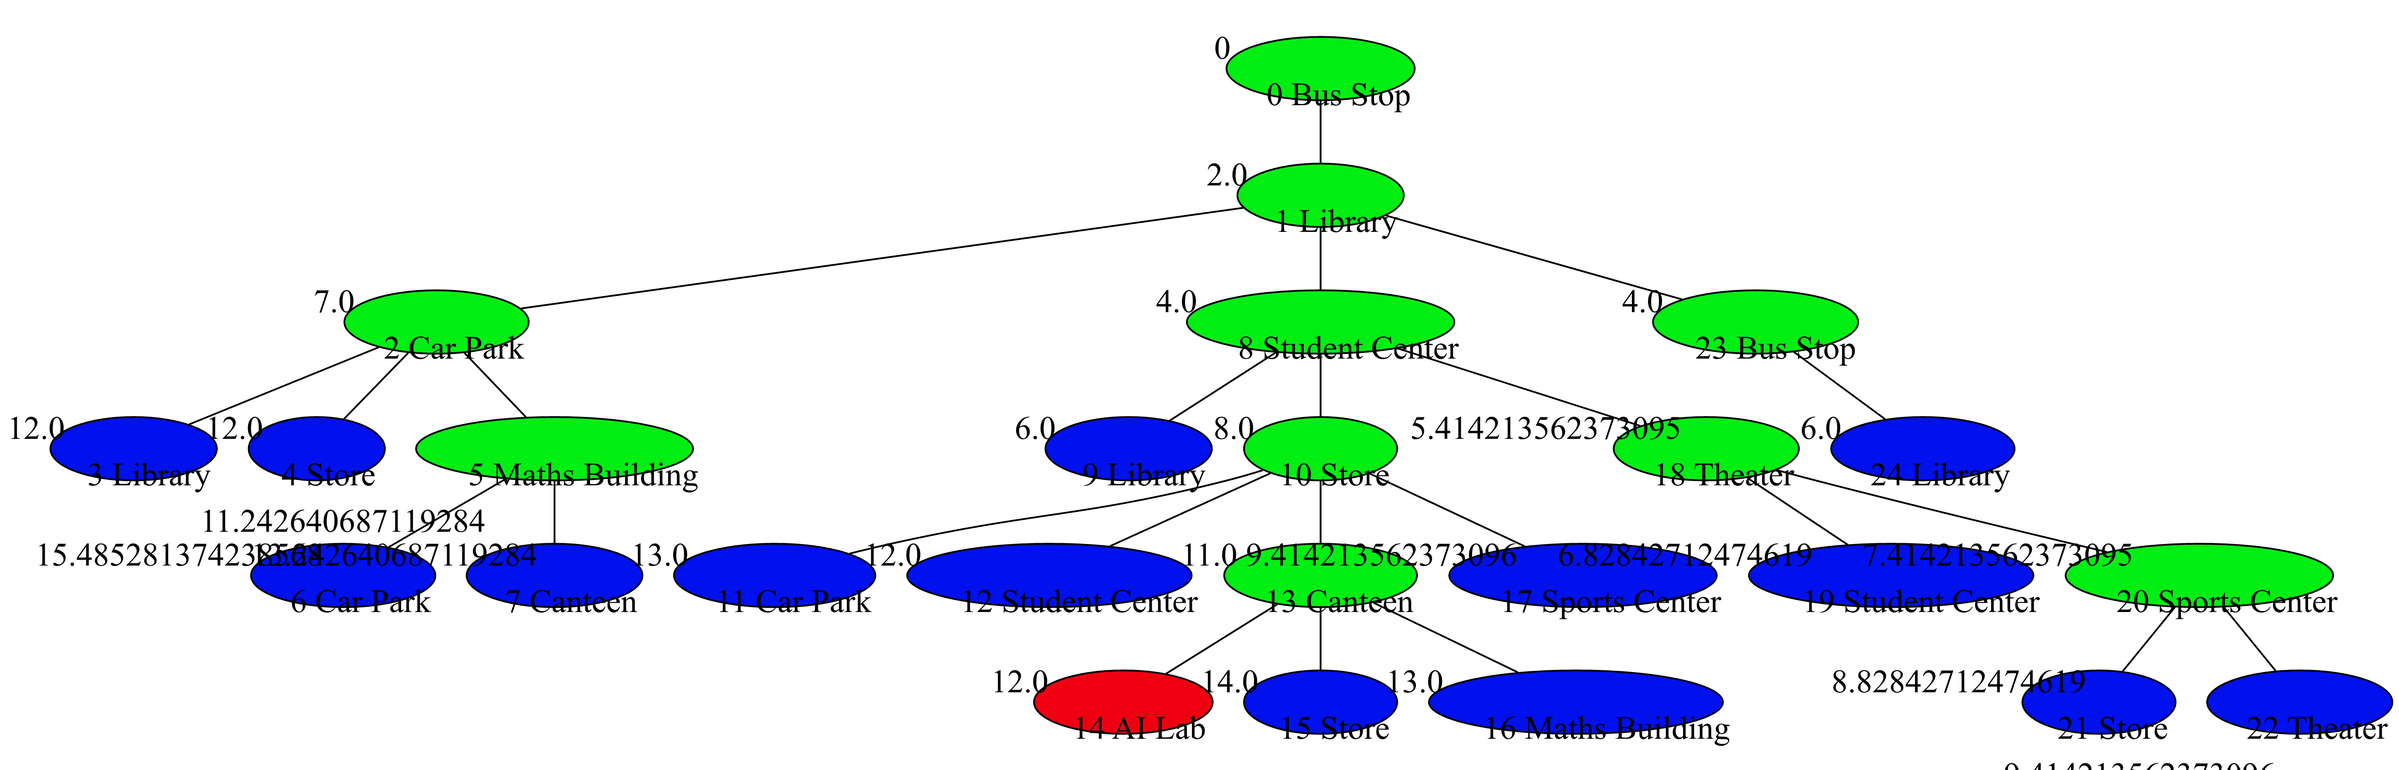
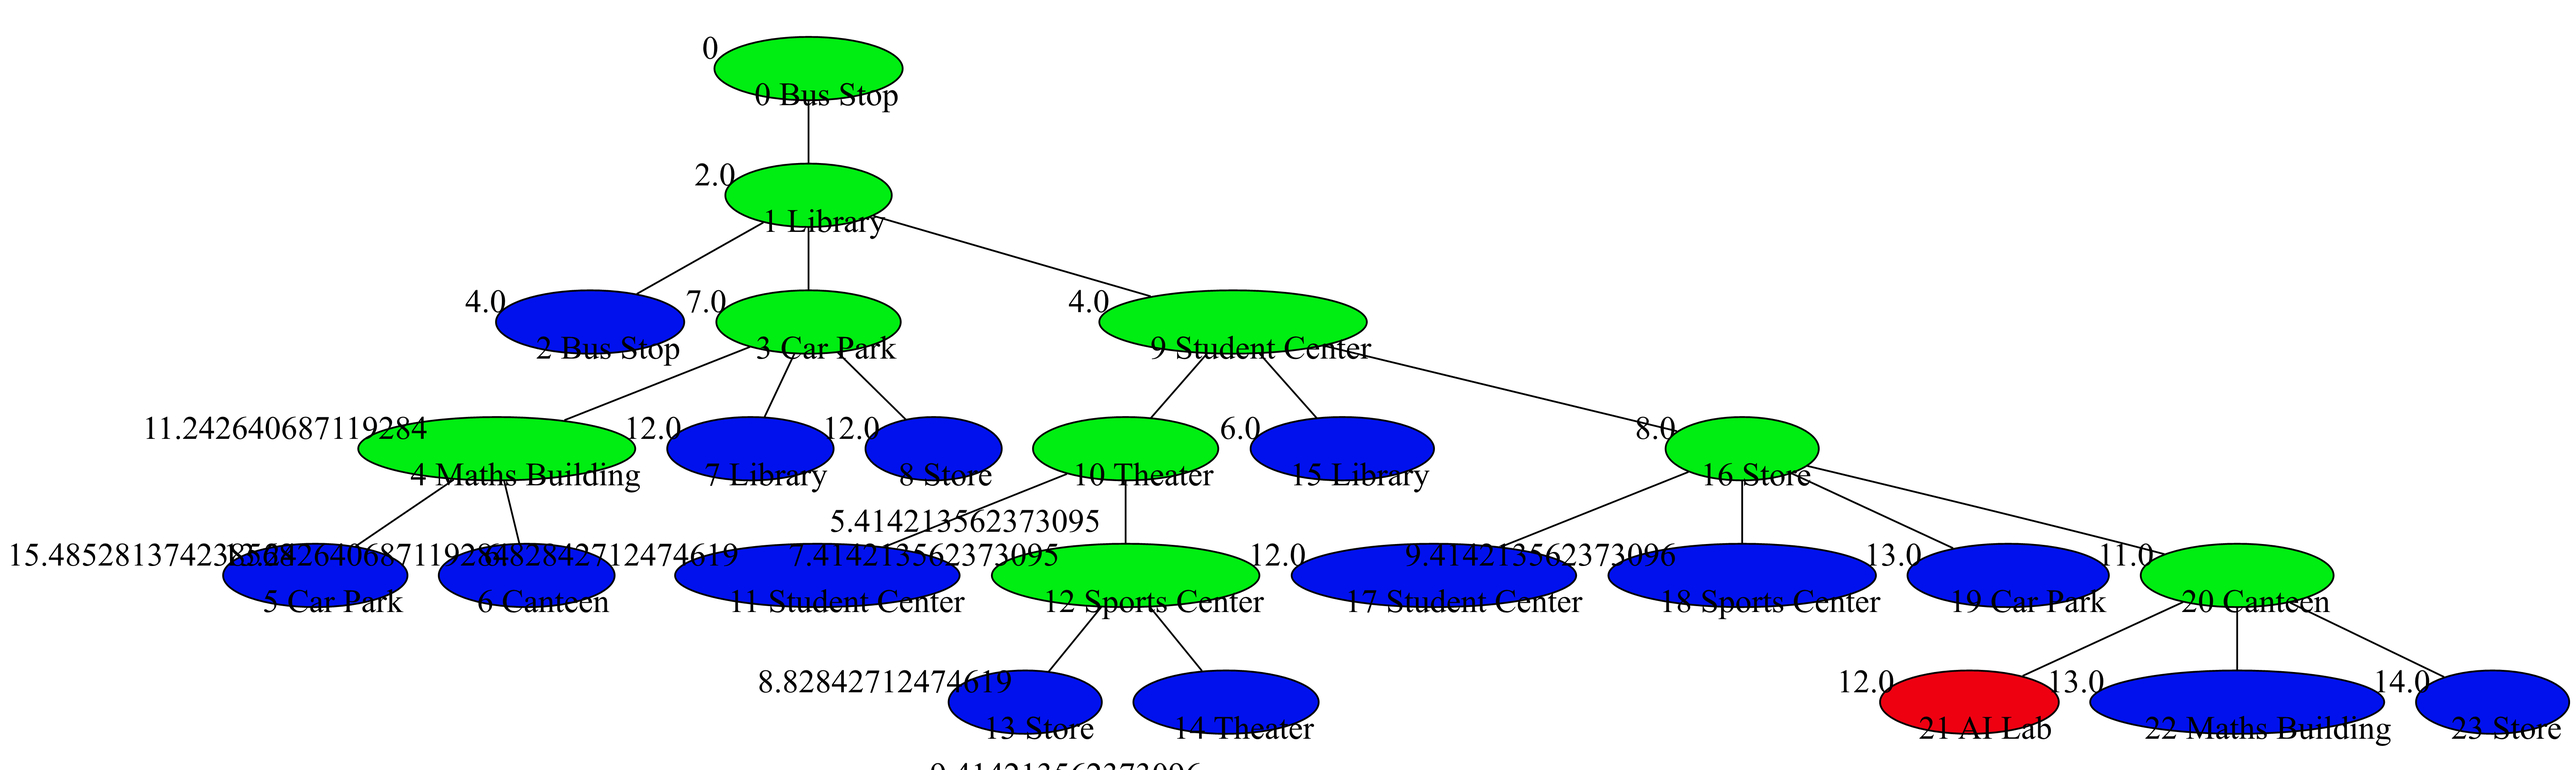
Refactored the code so when node is popped, imediatly check if is in visited.

diff --git a/Astar/AStar.py b/Astar/AStar.py
@@ -32,6 +32,13 @@ def performAStarSearch():
         
         #dequeue nodes from the priority Queue
         _, currentNode = pqueue.get()
+
+        #check if the node has already been visited
+        if currentNode.state.place in visited:
+            continue
+
+        #add to visited list
+        visited.append(currentNode.state.place)
         
         #remove from the fringe
         currentNode.fringe = False
@@ -58,15 +65,10 @@ def performAStarSearch():
             
             childNode = Node(State(childState), currentNode)
 
-            #check if child node is already visited
-            if childNode.state.place not in [v for v in visited]:
-            
 
             #add to tree and queue
-                pqueue.put((childNode.costFromRoot, childNode))
+            pqueue.put((childNode.costFromRoot, childNode))
 
-            #add to visited list
-                visited.append(childNode.state.place)
 
         #show the search tree explored so far
         treeplot = TreePlot()
